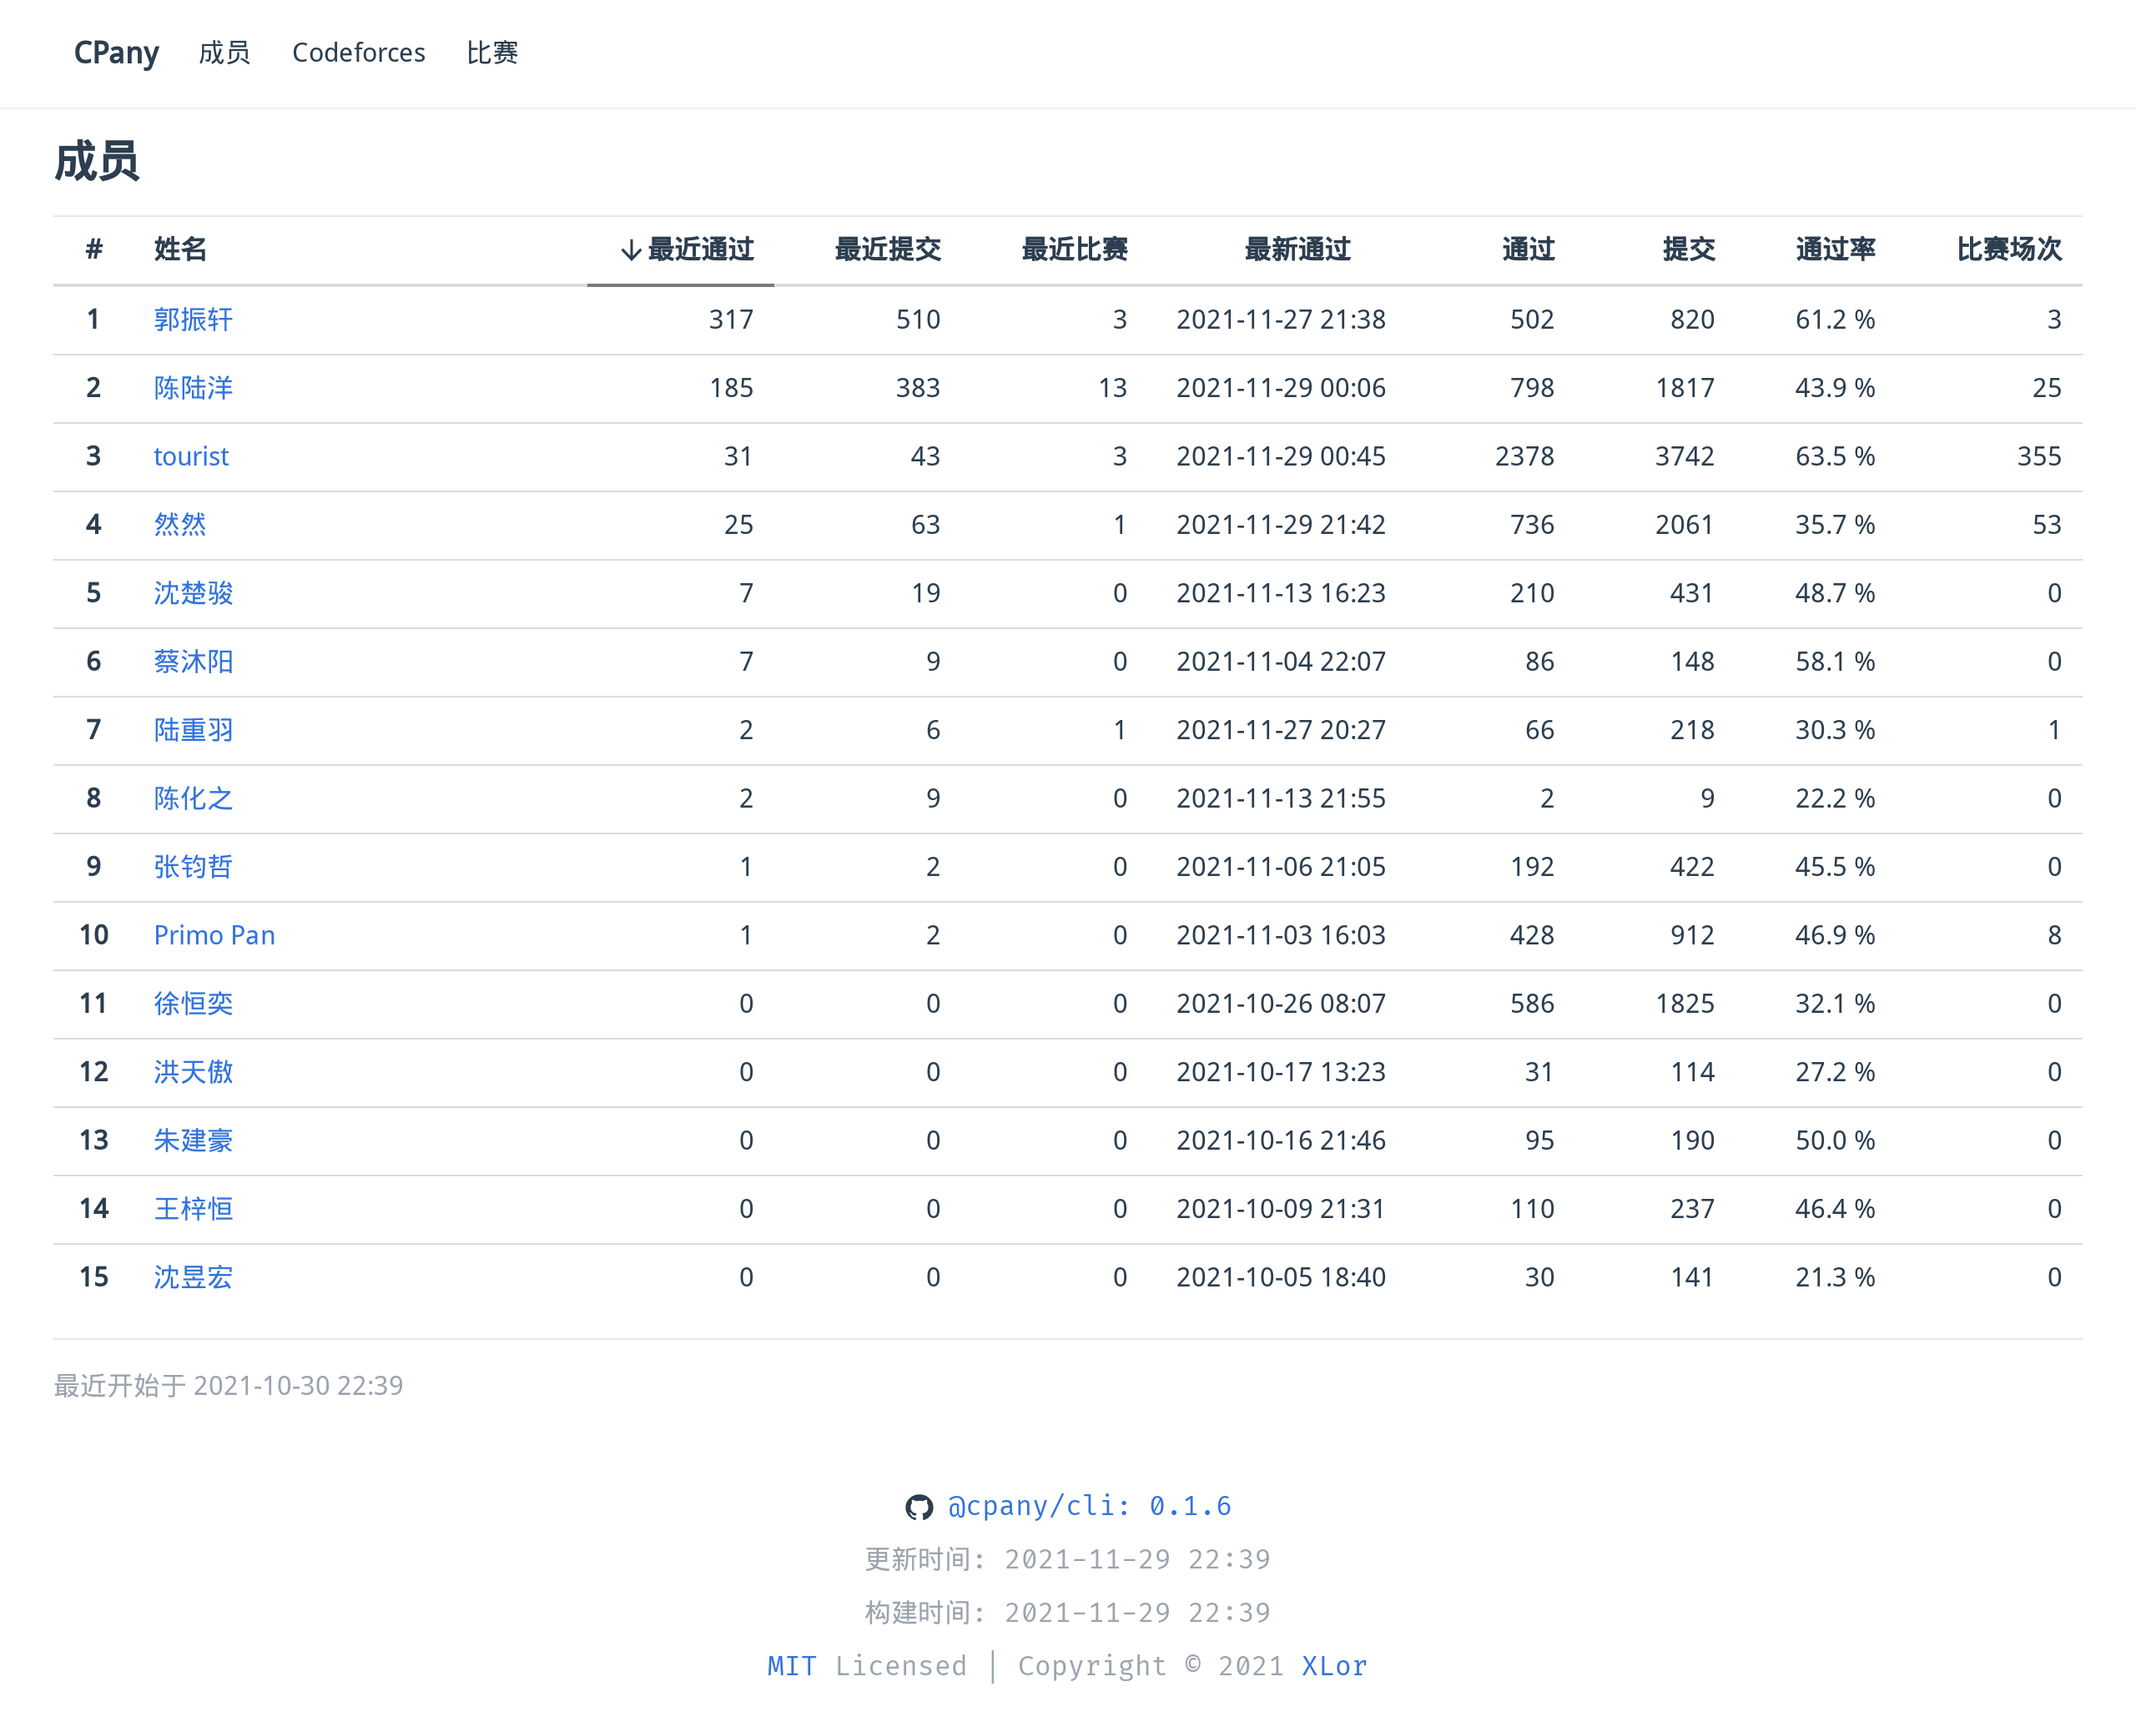
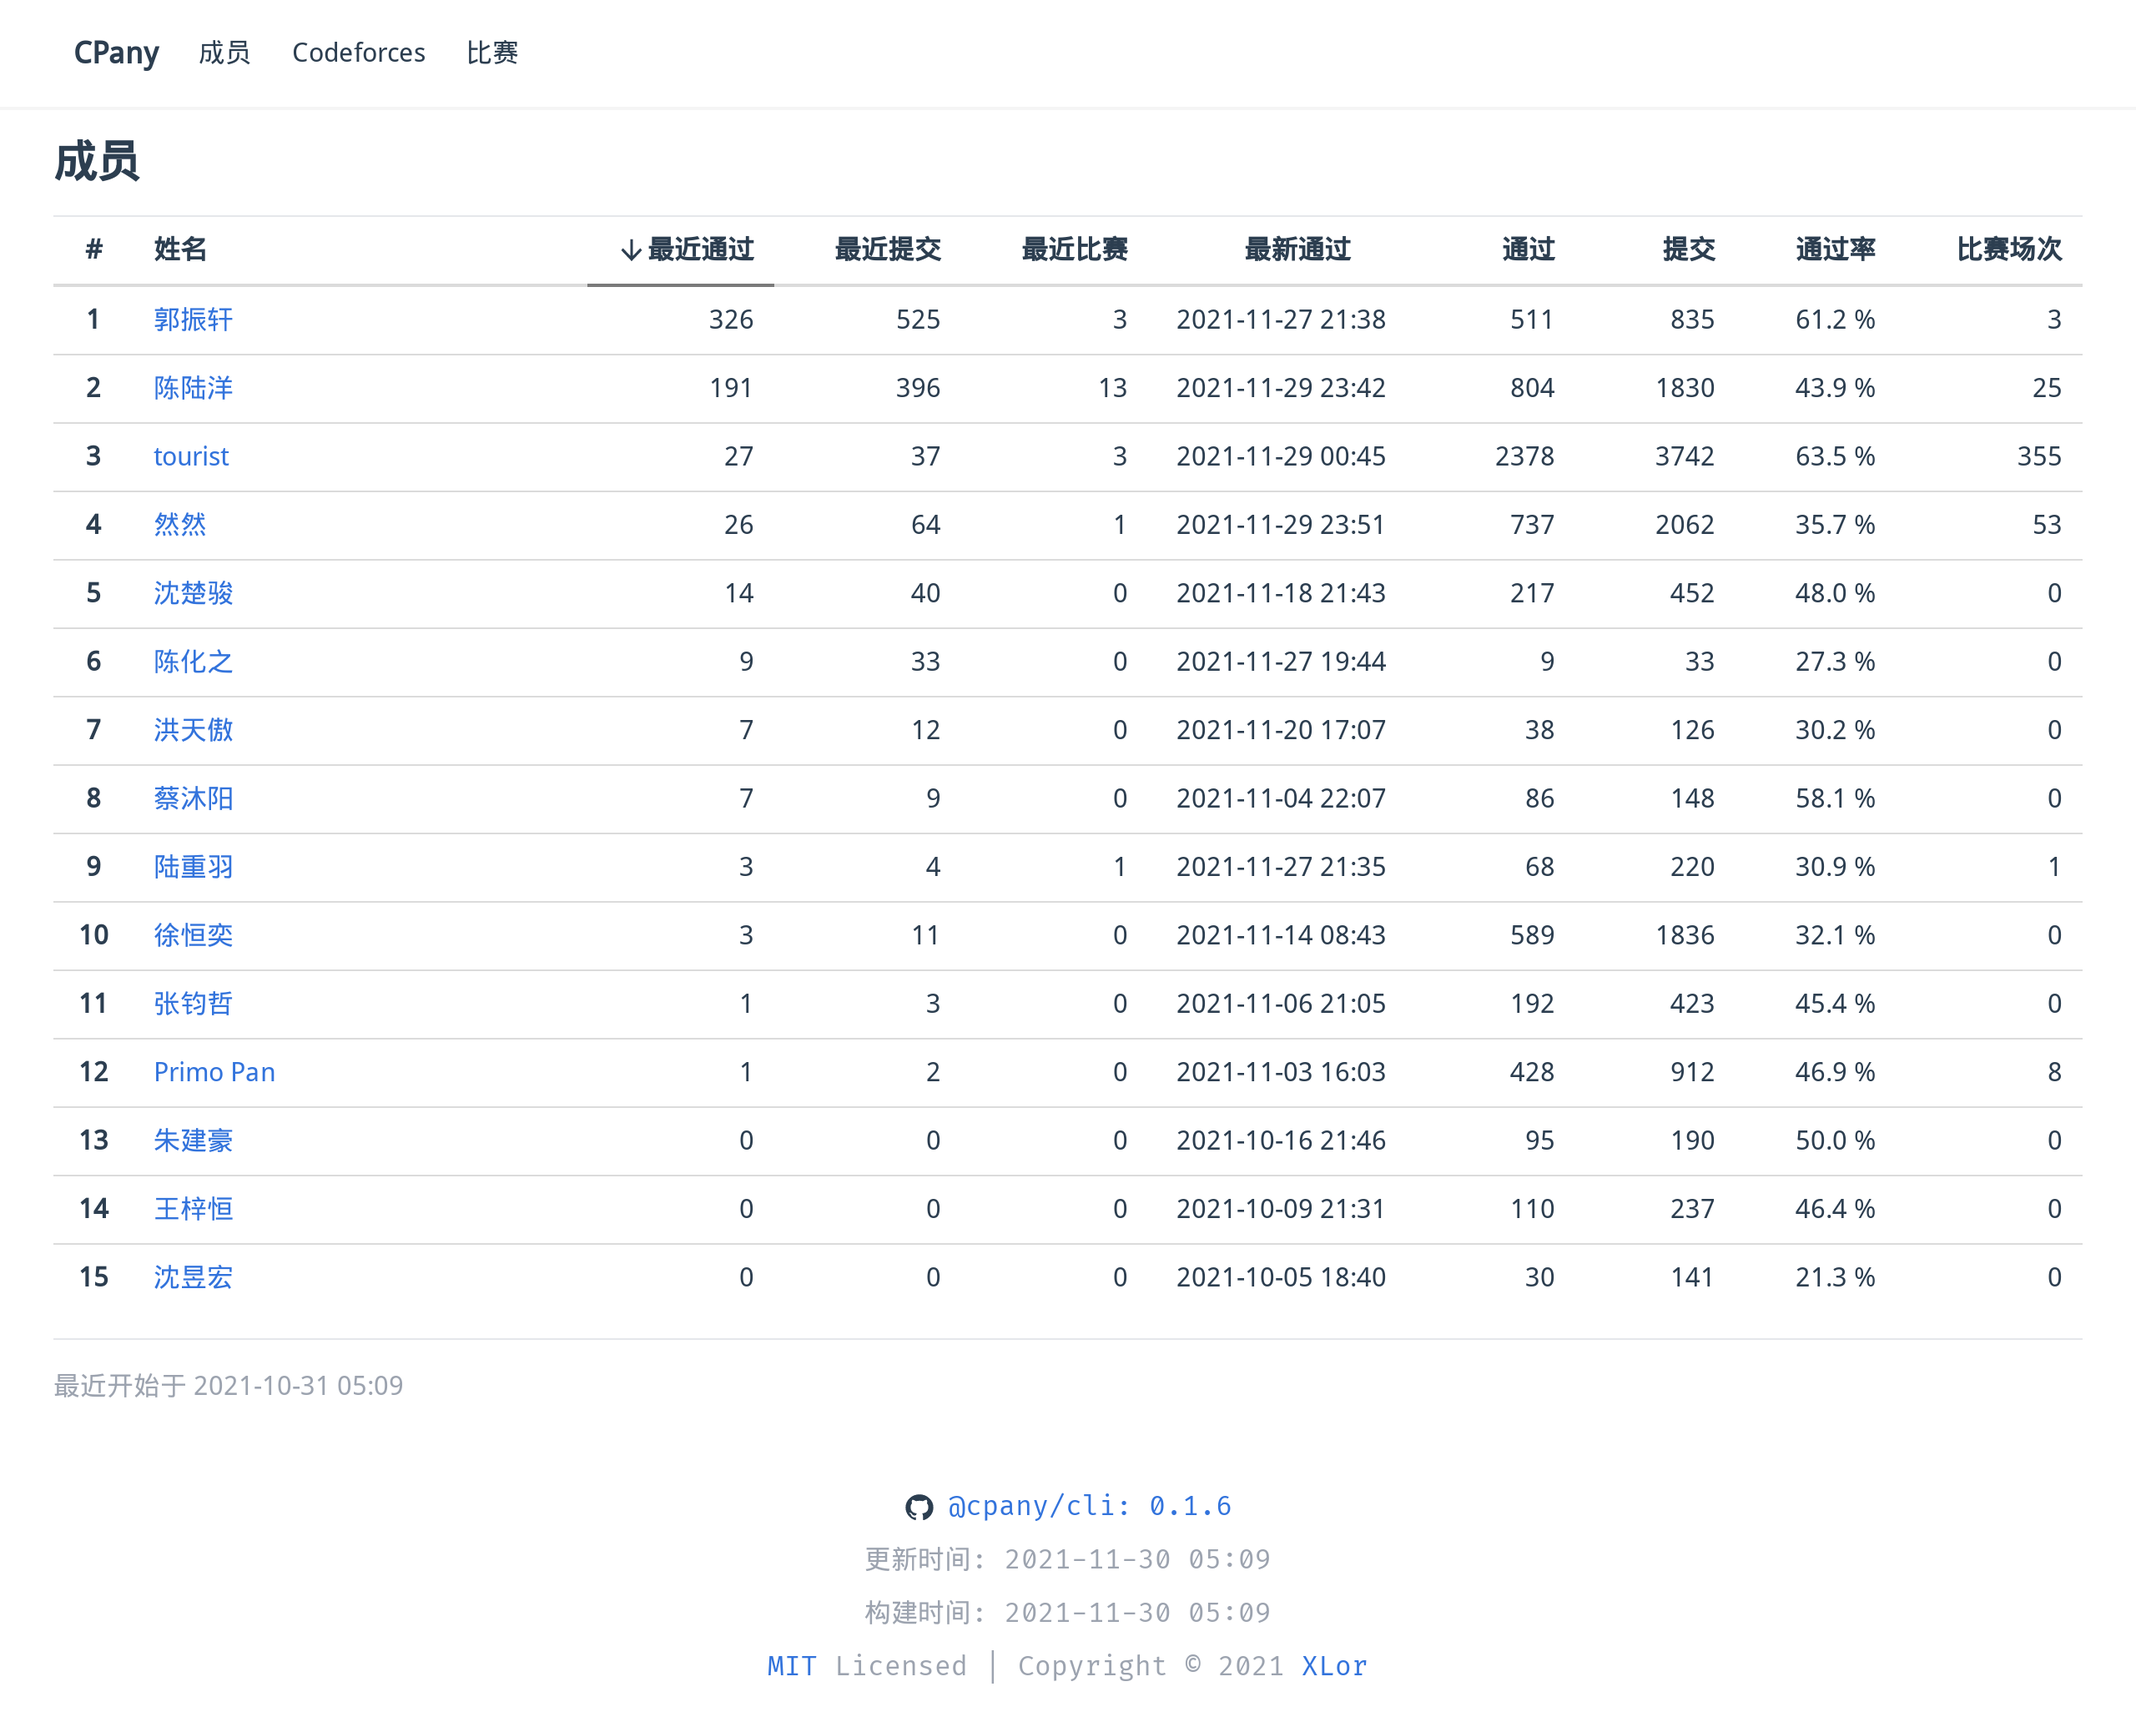
Fetch data on 2021-11-30 05:09

diff --git a/README.md b/README.md
@@ -3,7 +3,7 @@
 [![version](https://img.shields.io/npm/v/@cpany/cli?color=rgb%2850%2C203%2C86%29&label=CPany)](https://www.npmjs.com/package/@cpany/cli)
 
 <!-- START_SECTION: update_time -->
-更新时间：[2021-11-29 22:44](https://www.timeanddate.com/worldclock/fixedtime.html?msg=Fetch+data&iso=202111291638197041000224401&p1=237)
+更新时间：[2021-11-30 05:09](https://www.timeanddate.com/worldclock/fixedtime.html?msg=Fetch+data&iso=202111301638220143000050903&p1=237)
 <!-- END_SECTION: update_time -->
 
 ![members](./screenshot.png)
